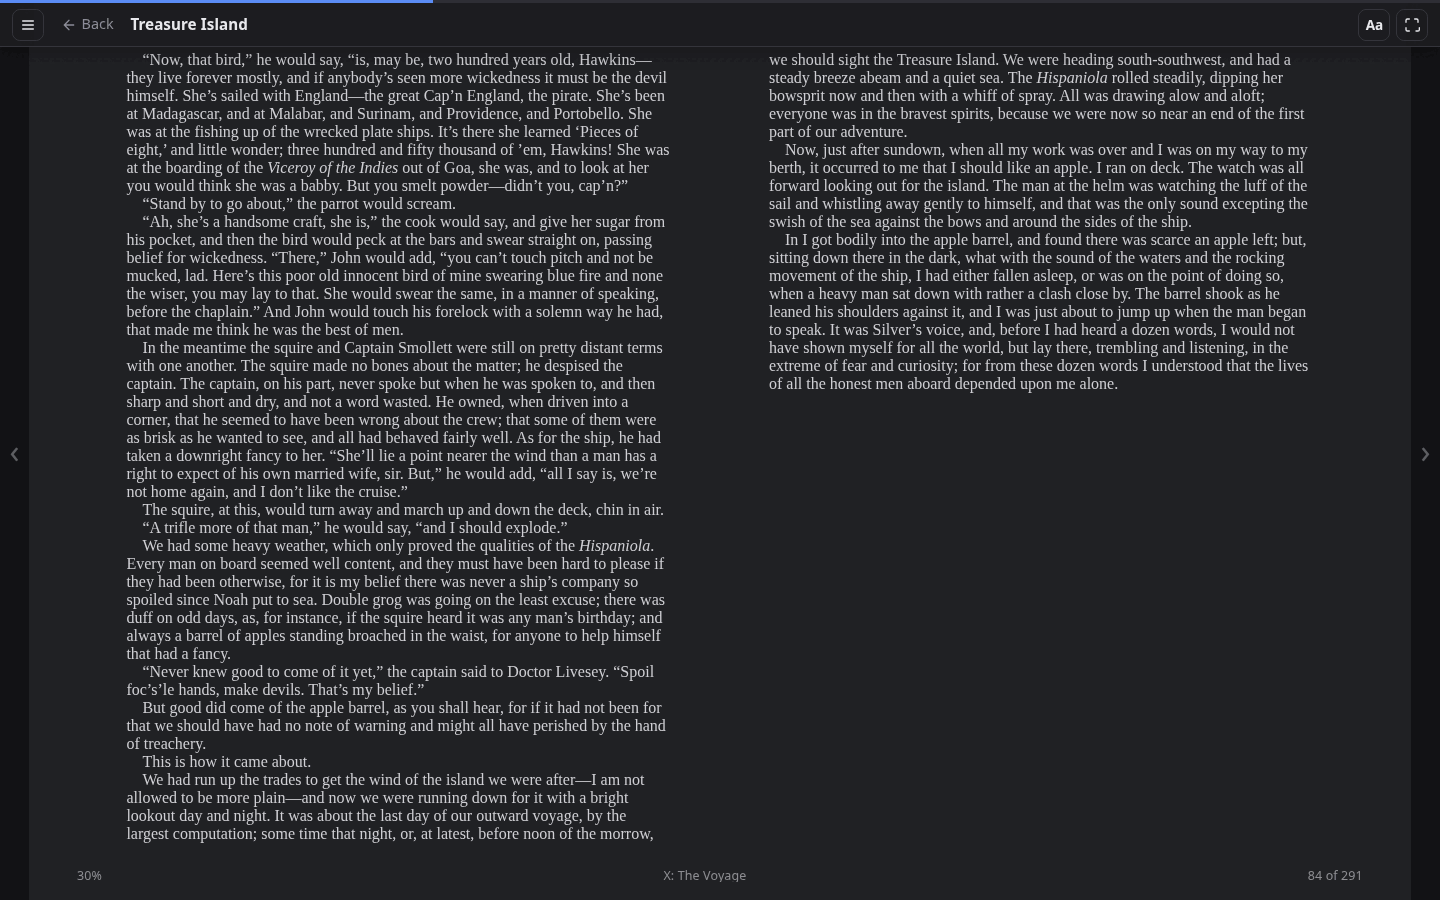
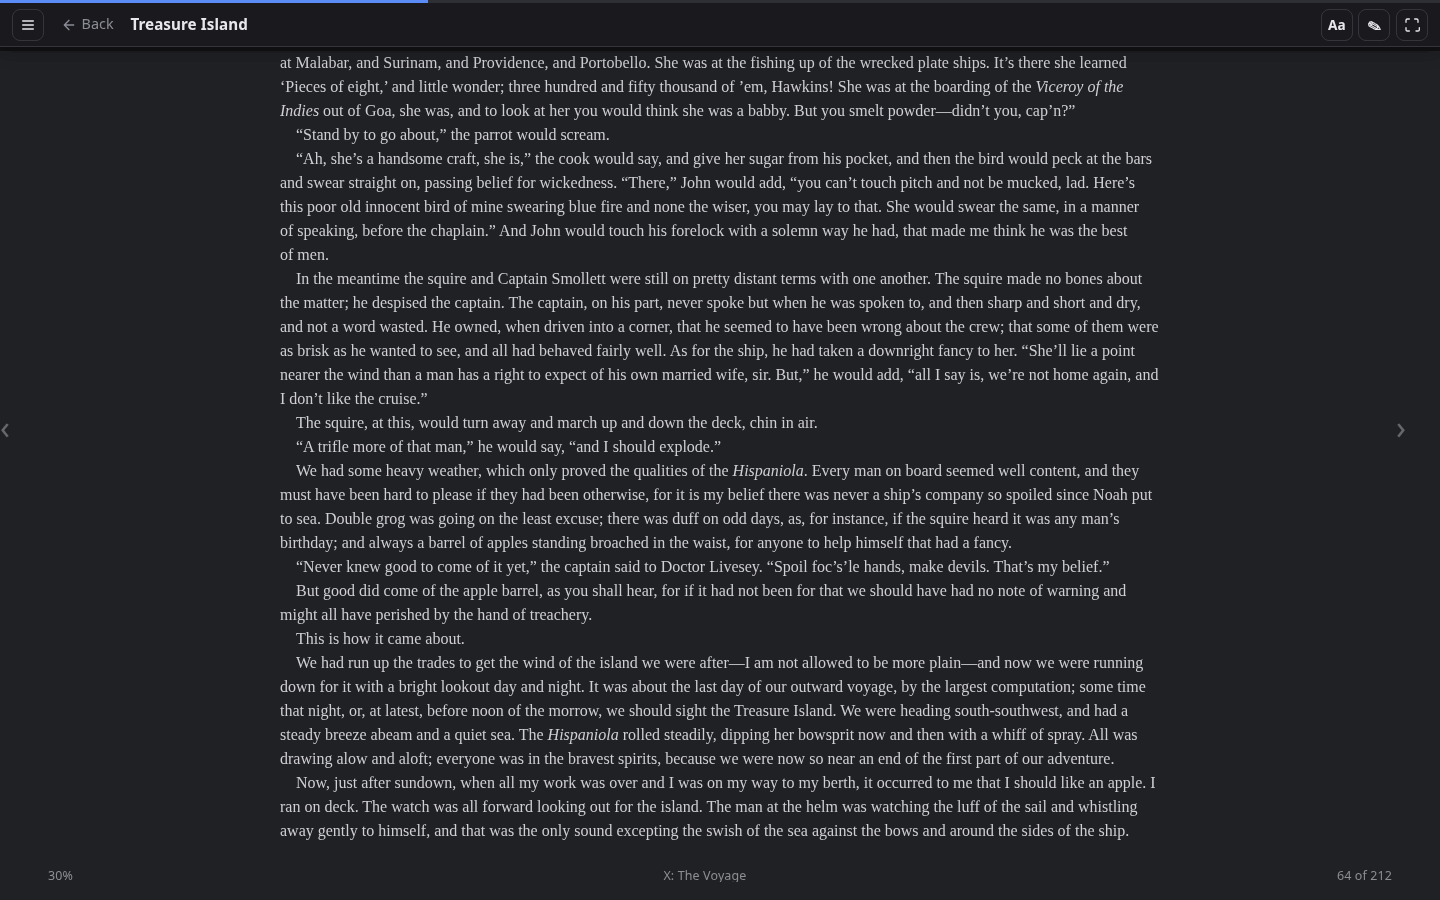
fix: Expand text column widths across reader margin settings
Character-count limits previously turned the narrow margin option into
wide side margins on large screens. Removed the line-length caps for
the narrow setting so text filled the available viewport, and adjusted
the normal and wide settings to provide roomier reading columns.

Changed region(s): [[0.0938, 0.0622, 0.9062, 0.9333], [0.9062, 0.9644, 0.9688, 0.9956], [0.0312, 0.9644, 0.0625, 0.9956]]

diff --git a/internal/webui/static/reader-engine.js b/internal/webui/static/reader-engine.js
@@ -286,24 +286,16 @@ export class ReaderEngine extends HTMLElement {
   applySettings(settings, styleText, theme) {
     this.settings = settings; this.styleText = styleText;
     const margin = { none: 8, narrow: 16, normal: 32, wide: 48 }[settings.margin] || 32;
-    // Readium's own auto column width targets a fixed character-count
-    // range (its own defaults, unrelated to any setting here) and grows
-    // the reading column to keep that count reachable, so widening only
-    // pageGutter (the column's own inner padding) leaves the column
-    // exactly as wide as before it — the padding increase is absorbed
-    // by a matching growth of the column. Driving the target line
-    // length itself is what actually makes "narrow" show more of the
-    // viewport as text and "wide" show less, matching what a margin
-    // control is expected to do. A null max (and min) lifts Readium's
-    // own column-width cap entirely — "none" is the only choice where
-    // the column grows to fill the available width instead of stopping
-    // at a fixed character count.
+    // None and narrow use the available width with only the page gutter.
+    // A character-count cap would turn narrow into wide margins on a
+    // large screen. Normal and wide retain bounded line lengths; gutter
+    // changes alone are absorbed by Readium growing the column to match.
     const lineLength = {
       none: { optimalLineLength: 90, minimalLineLength: null, maximalLineLength: null },
-      narrow: { optimalLineLength: 90, minimalLineLength: 60, maximalLineLength: 110 },
-      normal: { optimalLineLength: 65, minimalLineLength: 40, maximalLineLength: 80 },
-      wide: { optimalLineLength: 48, minimalLineLength: 32, maximalLineLength: 60 },
-    }[settings.margin] || { optimalLineLength: 65, minimalLineLength: 40, maximalLineLength: 80 };
+      narrow: { optimalLineLength: 90, minimalLineLength: null, maximalLineLength: null },
+      normal: { optimalLineLength: 90, minimalLineLength: 60, maximalLineLength: 110 },
+      wide: { optimalLineLength: 65, minimalLineLength: 40, maximalLineLength: 80 },
+    }[settings.margin] || { optimalLineLength: 90, minimalLineLength: 60, maximalLineLength: 110 };
     this.renderer.style.inset = `0 0 ${settings.flow === "scrolled" ? 0 : margin}px`;
     this.preferences = {
       scroll: settings.flow === "scrolled",
